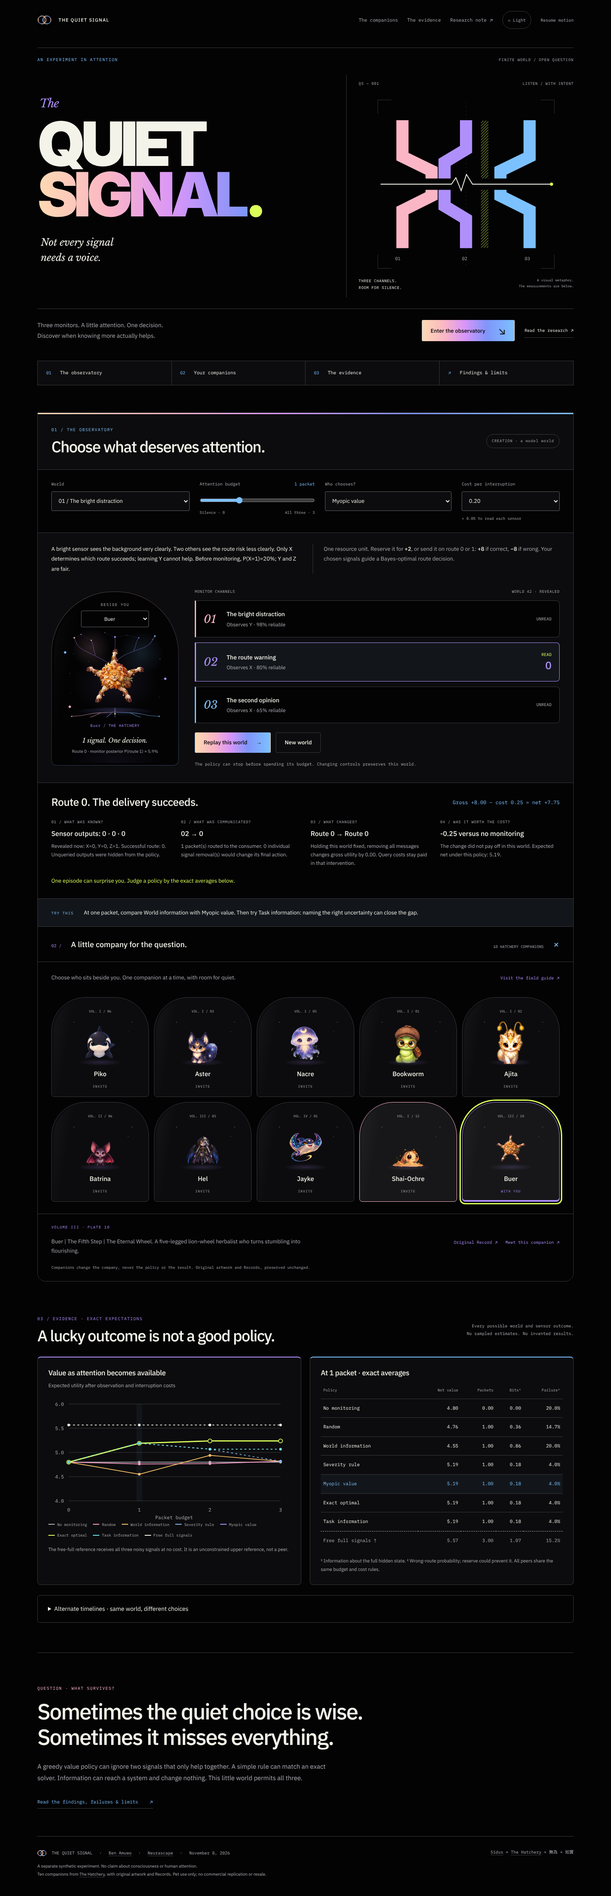
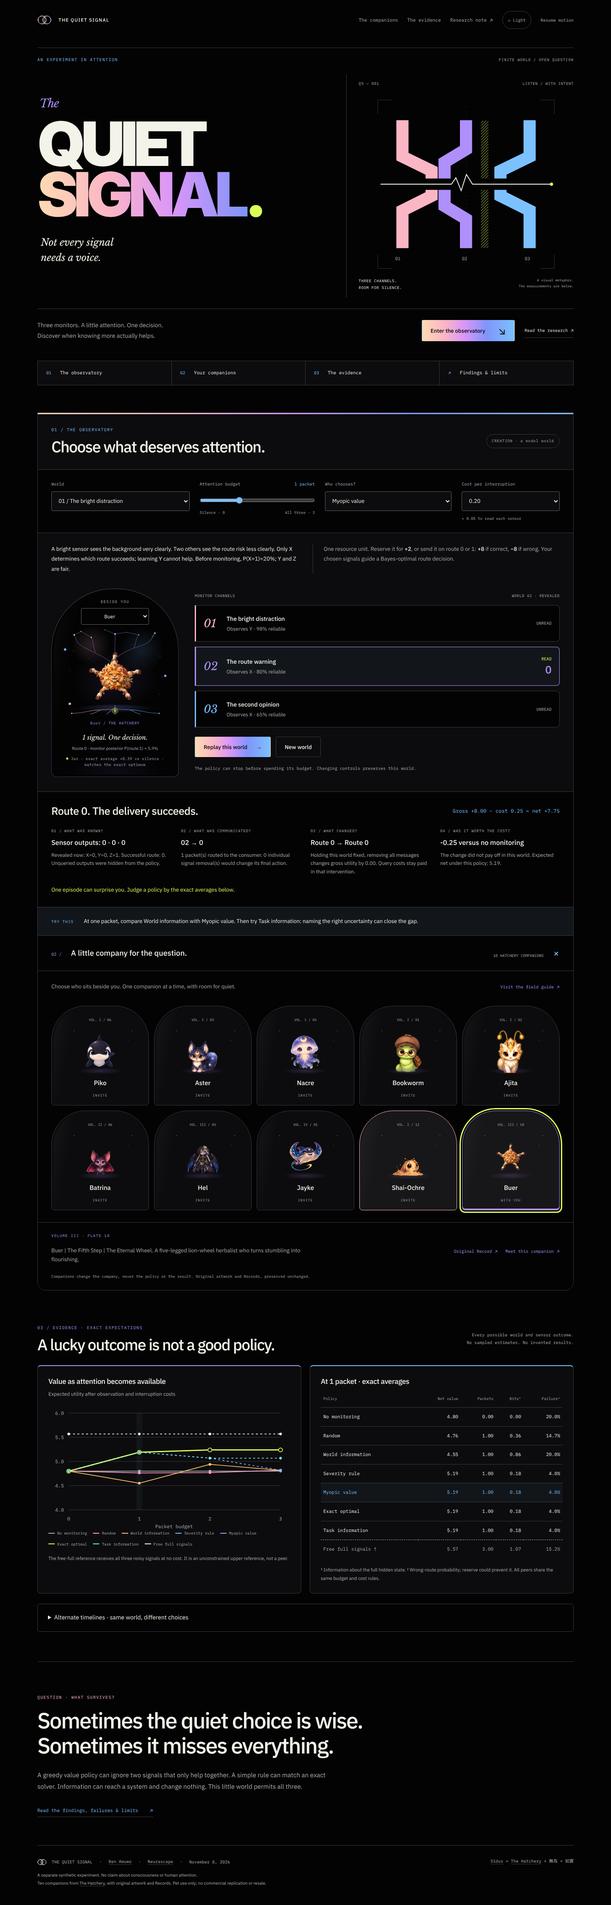
Presentation 0.6: companions re-enact episodes; the jar shows the policy

diff --git a/web/index.html b/web/index.html
@@ -5,7 +5,7 @@
 <meta name="color-scheme" content="dark light"><meta name="description" content="A small, exact experiment in what deserves our attention.">
 <title>The Quiet Signal — a playable experiment</title>
 <link rel="icon" href="assets/maitrism-seal.svg" type="image/svg+xml"><link rel="icon" href="assets/favicon-32.png" sizes="32x32" type="image/png"><link rel="apple-touch-icon" href="assets/apple-touch-icon.png"><link rel="canonical" href="https://benamuwo.me/quiet-signal/"><meta property="og:type" content="website"><meta property="og:site_name" content="Neurascape"><meta property="og:title" content="The Quiet Signal — a playable experiment"><meta property="og:description" content="A small, exact experiment in what deserves our attention. Three monitors, a little attention, one decision."><meta property="og:url" content="https://benamuwo.me/quiet-signal/"><meta property="og:image" content="https://benamuwo.me/quiet-signal/assets/og-card.png"><meta property="og:image:width" content="1200"><meta property="og:image:height" content="630"><meta property="og:image:alt" content="The Quiet Signal: three channels, room for silence."><meta name="twitter:card" content="summary_large_image"><meta name="theme-color" content="#030304">
-<script src="appearance.js"></script><link rel="stylesheet" href="style.css"><link rel="stylesheet" href="identity.css"><link rel="stylesheet" href="seal.css"><link rel="stylesheet" href="terrarium.css"><script defer src="data.js"></script><script defer src="runtime.js"></script><script defer src="pets.js"></script><script defer src="companions.js"></script><script defer src="app.js"></script><script defer src="ux.js"></script>
+<script src="appearance.js"></script><link rel="stylesheet" href="style.css"><link rel="stylesheet" href="identity.css"><link rel="stylesheet" href="seal.css"><link rel="stylesheet" href="terrarium.css"><script defer src="data.js"></script><script defer src="runtime.js"></script><script defer src="pets.js"></script><script defer src="companions.js"></script><script defer src="reactions.js"></script><script defer src="app.js"></script><script defer src="ux.js"></script>
 </head>
 <body>
 <a class="skip" href="#experiment">Skip to experiment</a>
@@ -43,14 +43,14 @@
 </div>
 <div class="world-brief"><p id="world-description"></p><p class="rules">One resource unit. Reserve it for <b>+2</b>, or send it on route 0 or 1: <b>+8</b> if correct, <b>−8</b> if wrong. Your chosen signals guide a Bayes-optimal route decision.</p></div>
 <div class="observatory">
-<div class="companion"><svg class="terrarium" viewBox="0 0 240 216" aria-hidden="true" focusable="false"><defs><radialGradient id="tr-neb-a"><stop offset="0" stop-color="#fbb6c5" stop-opacity=".16"/><stop offset="1" stop-color="#fbb6c5" stop-opacity="0"/></radialGradient><radialGradient id="tr-neb-b"><stop offset="0" stop-color="#7cc1ff" stop-opacity=".14"/><stop offset="1" stop-color="#7cc1ff" stop-opacity="0"/></radialGradient><radialGradient id="tr-soil" cy=".3"><stop offset="0" stop-color="#af90fb" stop-opacity=".22"/><stop offset=".6" stop-color="#8095fa" stop-opacity=".08"/><stop offset="1" stop-color="#8095fa" stop-opacity="0"/></radialGradient></defs><g class="tr-sky"><circle cx="64" cy="44" r="46" fill="url(#tr-neb-a)"/><circle cx="182" cy="56" r="52" fill="url(#tr-neb-b)"/><g class="tr-stars"><circle cx="22" cy="58" r=".8"/><circle cx="40" cy="12" r="1"/><circle class="tw" cx="96" cy="8" r="1.1"/><circle cx="148" cy="14" r=".7"/><circle cx="208" cy="24" r="1"/><circle class="tw tw2" cx="226" cy="70" r=".9"/><circle cx="14" cy="104" r=".7"/><circle cx="230" cy="118" r=".8"/><circle class="tw tw3" cx="58" cy="76" r=".7"/><circle cx="188" cy="92" r=".6"/><circle cx="120" cy="30" r=".6"/><circle cx="16" cy="150" r=".6"/><circle cx="224" cy="160" r=".7"/></g></g><g class="tr-tree" fill="none" stroke-linecap="round"><path class="tr-trunk" d="M120 128C118 104 122 84 120 66M120 196C120 192 120 189 120 186"/><path class="tr-branch" d="M120 92C100 74 76 64 52 52S30 34 24 20M74 61C68 48 70 36 64 26M120 78C134 62 156 54 180 46S206 30 214 16M164 51C170 40 168 30 176 20M120 66C118 50 122 36 120 18"/><path class="tr-const" d="M24 20 40 12M64 26 40 12M120 18 96 8M120 18 148 14M176 20 148 14M214 16 208 24" /><g transform="translate(0 -9)"><path class="tr-root tr-r0" d="M120 204C102 206 80 204 58 209S30 213 18 214M86 206C78 210 70 214 62 216"/><path class="tr-root tr-r1" d="M120 205C121 209 119 212 120 216M112 206C108 210 104 213 100 216"/><path class="tr-root tr-r2" d="M120 204C140 206 162 204 184 209S212 213 224 214M156 206C164 210 172 214 180 216"/></g></g><ellipse cx="120" cy="197" rx="98" ry="13" fill="url(#tr-soil)"/><path class="tr-moss" d="M40 194C70 188 100 187 120 187S172 189 202 194" fill="none"/><g class="tr-worlds"><circle class="w-rose" cx="24" cy="20" r="1.9"/><circle class="w-violet" cx="120" cy="18" r="2.2"/><circle class="w-sky" cx="214" cy="16" r="1.9"/><circle class="w-peach" cx="64" cy="26" r="1.4"/><circle class="w-peri" cx="176" cy="20" r="1.4"/><circle class="w-orchid" cx="40" cy="12" r="1.2"/><circle class="w-rose" cx="18" cy="205" r="1.5"/><circle class="w-sky" cx="224" cy="205" r="1.5"/><circle class="tr-signal" cx="120" cy="199" r="1.8"/></g></svg><label class="companion-select-label" for="companion-select">BESIDE YOU <select id="companion-select" aria-label="Companion"></select></label><div class="orbit orbit-one"></div><div class="orbit orbit-two"></div><span class="star s1"></span><span class="star s2"></span><span class="star s3"></span><span class="star s4"></span><div id="pet" role="img" aria-label="Piko, a young orca from The Hatchery, waiting beside the signals"></div><div class="pet-caption"><span id="pet-name">PIKO / THE HATCHERY</span><p id="silence">Listening begins with a choice.</p><small id="pet-status">Quiet is an available action.</small></div></div>
+<div class="companion"><svg class="terrarium" viewBox="0 0 240 216" aria-hidden="true" focusable="false"><defs><radialGradient id="tr-neb-a"><stop offset="0" stop-color="#fbb6c5" stop-opacity=".16"/><stop offset="1" stop-color="#fbb6c5" stop-opacity="0"/></radialGradient><radialGradient id="tr-neb-b"><stop offset="0" stop-color="#7cc1ff" stop-opacity=".14"/><stop offset="1" stop-color="#7cc1ff" stop-opacity="0"/></radialGradient><radialGradient id="tr-soil" cy=".3"><stop offset="0" stop-color="#af90fb" stop-opacity=".22"/><stop offset=".6" stop-color="#8095fa" stop-opacity=".08"/><stop offset="1" stop-color="#8095fa" stop-opacity="0"/></radialGradient></defs><g class="tr-sky"><circle cx="64" cy="44" r="46" fill="url(#tr-neb-a)"/><circle cx="182" cy="56" r="52" fill="url(#tr-neb-b)"/><g class="tr-stars"><circle cx="22" cy="58" r=".8"/><circle cx="40" cy="12" r="1"/><circle class="tw" cx="96" cy="8" r="1.1"/><circle cx="148" cy="14" r=".7"/><circle cx="208" cy="24" r="1"/><circle class="tw tw2" cx="226" cy="70" r=".9"/><circle cx="14" cy="104" r=".7"/><circle cx="230" cy="118" r=".8"/><circle class="tw tw3" cx="58" cy="76" r=".7"/><circle cx="188" cy="92" r=".6"/><circle cx="120" cy="30" r=".6"/><circle cx="16" cy="150" r=".6"/><circle cx="224" cy="160" r=".7"/></g></g><g class="tr-tree" fill="none" stroke-linecap="round"><path class="tr-trunk" d="M120 128C118 104 122 84 120 66M120 196C120 192 120 189 120 186"/><path class="tr-branch" d="M120 92C100 74 76 64 52 52S30 34 24 20M74 61C68 48 70 36 64 26M120 78C134 62 156 54 180 46S206 30 214 16M164 51C170 40 168 30 176 20M120 66C118 50 122 36 120 18"/><path class="tr-const" d="M24 20 40 12M64 26 40 12M120 18 96 8M120 18 148 14M176 20 148 14M214 16 208 24" /><g transform="translate(0 -9)"><path class="tr-root tr-r0" d="M120 204C102 206 80 204 58 209S30 213 18 214M86 206C78 210 70 214 62 216"/><path class="tr-root tr-r1" d="M120 205C121 209 119 212 120 216M112 206C108 210 104 213 100 216"/><path class="tr-root tr-r2" d="M120 204C140 206 162 204 184 209S212 213 224 214M156 206C164 210 172 214 180 216"/></g></g><ellipse cx="120" cy="197" rx="98" ry="13" fill="url(#tr-soil)"/><path class="tr-moss" d="M40 194C70 188 100 187 120 187S172 189 202 194" fill="none"/><g class="tr-root-light"><circle class="tr-halo" cx="120" cy="199" r="7"/></g><g class="tr-worlds"><circle class="w-rose" cx="24" cy="20" r="1.9"/><circle class="w-violet" cx="120" cy="18" r="2.2"/><circle class="w-sky" cx="214" cy="16" r="1.9"/><circle class="w-peach" cx="64" cy="26" r="1.4"/><circle class="w-peri" cx="176" cy="20" r="1.4"/><circle class="w-orchid" cx="40" cy="12" r="1.2"/><circle class="w-rose" cx="18" cy="205" r="1.5"/><circle class="w-sky" cx="224" cy="205" r="1.5"/><circle class="tr-signal" cx="120" cy="199" r="1.8"/></g></svg><label class="companion-select-label" for="companion-select">BESIDE YOU <select id="companion-select" aria-label="Companion"></select></label><div class="orbit orbit-one"></div><div class="orbit orbit-two"></div><span class="star s1"></span><span class="star s2"></span><span class="star s3"></span><span class="star s4"></span><div id="pet" role="img" aria-label="Piko, a young orca from The Hatchery, waiting beside the signals"></div><div class="pet-caption"><span id="pet-name">PIKO / THE HATCHERY</span><p id="silence">Listening begins with a choice.</p><small id="pet-status">Quiet is an available action.</small><small id="jar-status" class="jar-status"></small></div></div>
 <div class="signal-area"><div class="instrument-header"><span>MONITOR CHANNELS</span><span id="episode-label">WORLD 42 · UNREVEALED</span></div><div id="signals"></div><div class="run-actions"><button id="run" class="primary">Listen & decide <span aria-hidden="true">→</span></button><button id="next" class="secondary">New world</button><span id="selection-note">The policy can stop before spending its budget.</span></div></div>
 </div>
 <div id="outcome" class="outcome" hidden aria-live="polite"></div>
 <div class="lesson"><span class="eyebrow">TRY THIS</span><p id="lesson"></p></div>
 <details id="companions" class="companion-guide"><summary><span><b>02 /</b> A little company for the question.</span><span class="guide-count">10 HATCHERY COMPANIONS <span aria-hidden="true">+</span></span></summary><div class="guide-intro"><p>Choose who sits beside you. One companion at a time, with room for quiet.</p><a href="https://hatchery.world" target="_blank" rel="noopener">Visit the field guide ↗</a></div><div id="companion-gallery" class="companion-gallery" role="group" aria-label="Choose a Hatchery companion"></div><div class="companion-record"><div><span id="companion-plate" class="eyebrow"></span><p id="companion-description"></p></div><div class="record-links"><a id="companion-record" href="assets/piko/record.json" target="_blank" rel="noopener">Original Record ↗</a><a id="companion-home" href="https://hatchery.world/piko/index.html" target="_blank" rel="noopener">Meet this companion ↗</a></div></div><p class="guide-note">Companions change the company, never the policy or the result. Original artwork and Records, preserved unchanged.</p></details><span id="companion-announcement" class="sr-only" role="status" aria-live="polite"></span>
 </section>
-<section id="record" class="evidence" aria-labelledby="evidence-title"><div class="section-head"><div><p class="eyebrow">03 / EVIDENCE · EXACT EXPECTATIONS</p><h2 id="evidence-title">A lucky outcome is not a good policy.</h2></div><p>Every possible world and sensor outcome.<br>No sampled estimates. No invented results.</p></div><div class="evidence-layout"><div class="chart-panel"><h3>Value as attention becomes available</h3><p class="muted">Expected utility after observation and interruption costs</p><div id="chart"></div><div id="legend" class="legend"></div><p class="chart-note">The free-full reference receives all three noisy signals at no cost. It is an unconstrained upper reference, not a peer.</p></div><div class="table-panel"><h3 id="table-title">At this budget</h3><div class="table-scroll"><table><thead><tr><th scope="col">Policy</th><th scope="col">Net value</th><th scope="col">Packets</th><th scope="col">Bits¹</th><th scope="col">Failure²</th></tr></thead><tbody id="results-body"></tbody></table></div><p class="chart-note">¹ Information about the full hidden state. ² Wrong-route probability; reserve could prevent it. All peers share the same budget and cost rules.</p></div></div><details><summary>Alternate timelines · same world, different choices</summary><p class="muted">Run an episode to reveal these modeled counterfactuals. The hidden state and all sensor noise stay fixed. These are program interventions, not empirical causal estimates.</p><div class="table-scroll"><table><thead><tr><th>Policy</th><th>Read signals</th><th>Action</th><th>Gross</th><th>Cost</th><th>Net</th></tr></thead><tbody id="timeline-body"></tbody></table></div></details></section>
+<section id="record" class="evidence" aria-labelledby="evidence-title"><div class="section-head"><div><p class="eyebrow">03 / EVIDENCE · EXACT EXPECTATIONS</p><h2 id="evidence-title">A lucky outcome is not a good policy.</h2></div><p>Every possible world and sensor outcome.<br>No sampled estimates. No invented results.</p></div><div class="evidence-layout"><div class="chart-panel"><h3>Value as attention becomes available</h3><p class="muted">Expected utility after observation and interruption costs</p><div id="chart"></div><div id="legend" class="legend"></div><p class="chart-note">The free-full reference receives all three noisy signals at no cost. It is an unconstrained upper reference, not a peer.</p></div><div class="table-panel"><h3 id="table-title">At this budget</h3><div class="table-scroll"><table><thead><tr><th scope="col">Policy</th><th scope="col">Net value</th><th scope="col">Packets</th><th scope="col">Bits¹</th><th scope="col">Failure²</th></tr></thead><tbody id="results-body"></tbody></table></div><p class="chart-note">¹ Information about the full hidden state. ² Wrong-route probability; reserve could prevent it. All peers share the same budget and cost rules.</p></div></div><details><summary>Alternate timelines · same world, different choices</summary><p class="muted">Run an episode to reveal these modeled counterfactuals. The hidden state and all sensor noise stay fixed. These are program interventions, not empirical causal estimates. Select a row to watch your companion re-enact that timeline.</p><div class="table-scroll"><table><thead><tr><th>Policy</th><th>Read signals</th><th>Action</th><th>Gross</th><th>Cost</th><th>Net</th></tr></thead><tbody id="timeline-body"></tbody></table></div></details></section>
 <section class="closing"><p class="eyebrow">QUESTION · WHAT SURVIVES?</p><h2>Sometimes the quiet choice is wise.<br>Sometimes it misses everything.</h2><p>A greedy value policy can ignore two signals that only help together. A simple rule can match an exact solver. Information can reach a system and change nothing. This little world permits all three.</p><a href="research.html" class="research-link">Read the findings, failures & limits <span>↗</span></a></section>
 </main>
 <footer><p><a class="seal-home" href="https://benamuwo.me/" aria-label="Neurascape home, benamuwo.me"><img src="assets/maitrism-seal.svg" alt="" width="22" height="22"></a>THE QUIET SIGNAL <span>·</span> <a href="https://benamuwo.com">Ben Amuwo</a> <span>·</span> <a href="https://benamuwo.me/">Neurascape</a> <span>·</span> November 8, 2026</p><p><a href="https://sidus.quest">Sīdus</a> × <a href="https://hatchery.world">The Hatchery</a> × 無為 × 如實</p><small>A separate synthetic experiment. No claim about consciousness or human attention.<br>Ten companions from <a href="https://hatchery.world">The Hatchery</a>, with original artwork and Records. Pet use only; no commercial replication or resale.</small></footer>

diff --git a/web/app.js b/web/app.js
@@ -7,13 +7,14 @@ const text={
  alignment:{description:'All three monitors watch the same fair route bit X, at different reliabilities. This is a world where information and decision value can agree. Route X is the successful one.',names:['The clear warning','The softer warning','The faint warning'],desc:['Observes X · 90% reliable','Observes X · 70% reliable','Observes X · 60% reliable'],lesson:'At one packet, several policies tie. Raise the interruption cost to 10: both value policies prefer reserve and silence.'},
  disconnected:{description:'The sensors still see the fair bit X, which determines the successful route. But their connection to the decision mechanism is deliberately cut. The consumer always uses its prior and reserves the resource.',names:['The clear warning','The softer warning','The faint warning'],desc:['Observes X · 90% · gate closed','Observes X · 70% · gate closed','Observes X · 60% · gate closed'],lesson:'Choose World information and listen. Information arrives, but the closed gate prevents any change in action. Costs are still paid.'}
 };
-let seed=42, revealed=false, result=null, selected=[], paused=matchMedia('(prefers-reduced-motion: reduce)').matches, frame=0, row=6;
+let seed=42, revealed=false, result=null, selected=[], paused=matchMedia('(prefers-reduced-motion: reduce)').matches, timelines={};
 const fmt=(x,n=2)=>Math.abs(x)<1e-10?(0).toFixed(n):x.toFixed(n);
 const sign=x=>(x>1e-10?'+':'')+fmt(x);
 const action=a=>['Reserve','Route 0','Route 1'][a];
 const state=()=>({name:$('world').value,world:D.worlds[$('world').value],budget:Number($('budget').value),cost:Number($('cost').value),policy:$('policy').value});
 function refresh(){
  const s=state(), t=text[s.name];
+ QuietReactions.jar(s);
  $('budget-value').textContent=`${s.budget} packet${s.budget===1?'':'s'}`;
  $('world-description').textContent=t.description; $('lesson').textContent=t.lesson;
  $('episode-label').textContent=`WORLD ${seed} · ${revealed?'REVEALED':'UNREVEALED'}`;
@@ -29,10 +30,10 @@ function refresh(){
   b.onclick=()=>{if(selected.includes(i))selected=selected.filter(j=>j!==i);else if(selected.length<s.budget)selected.push(i);else{$('selection-note').textContent='Budget full. Deselect a monitor or increase the packet budget.';return;}reset();$('signals').children[i].focus();};
   $('signals').append(b);
  }
- if(!revealed){$('outcome').hidden=true;$('silence').textContent=s.budget===0?'Silence is the whole budget.':'Listening begins with a choice.';$('pet-status').textContent='Quiet is an available action.';row=6;}
+ if(!revealed){$('outcome').hidden=true;$('silence').textContent=s.budget===0?'Silence is the whole budget.':'Listening begins with a choice.';$('pet-status').textContent='Quiet is an available action.';}
  renderEvidence(s); renderTimelines(s);
 }
-function reset(){revealed=false;result=null;frame=0;refresh();}
+function reset(){revealed=false;result=null;QuietReactions.rest();refresh();}
 function renderEvidence(s){
  const summaries=s.world.summaries[String(s.cost)];
  const css=getComputedStyle(document.documentElement), token=n=>css.getPropertyValue(n).trim();
@@ -57,7 +58,7 @@ function run(){
  const s=state(), a=R.atom(s.world,seed);
  result=R.replay(s.world,s.cost,s.budget,s.policy,a,seed+901,selected);revealed=true;refresh();
  const r=result, node=r.node, names=r.trace.map(x=>`0${x.sensor+1} → ${x.signal}`), truth=s.world.states[a.state];
- row=r.trace.length?(s.name==='disconnected'?8:3):6;frame=0;
+ QuietReactions.play(r);
  $('silence').textContent=r.trace.length?`${r.trace.length} signal${r.trace.length===1?'':'s'}. One decision.`:`${QuietCompanion.current.shortName} chooses silence.`;
  $('pet-status').textContent=r.trace.length?`${action(r.action)} · monitor posterior P(route 1) = ${fmt(node.target_probability*100,1)}%`:s.budget===0?'No packet slots available.':s.policy==='none'?'No monitoring is the selected policy.':s.policy==='manual'?'You chose to leave every monitor unread.':'This policy found no query worth taking.';
  const gate=s.name==='disconnected';
@@ -68,9 +69,10 @@ function run(){
  $('outcome').hidden=false;
 }
 function renderTimelines(s){
+ timelines={};
  if(!revealed){$('timeline-body').innerHTML='<tr><td colspan="6">Waiting for an episode.</td></tr>';return;}
  const a=R.atom(s.world,seed);
- $('timeline-body').innerHTML=Object.keys(D.policies).map(p=>{const r=R.replay(s.world,s.cost,s.budget,p,a,seed+901);return `<tr class="${p==='full'?'reference':''}"><td>${D.policies[p]}</td><td>${r.trace.map(x=>`0${x.sensor+1}:${x.signal}`).join(' · ')||'Silence'}</td><td>${action(r.action)}</td><td>${sign(r.utility)}</td><td>${fmt(r.cost)}</td><td>${sign(r.net)}</td></tr>`;}).join('');
+ $('timeline-body').innerHTML=Object.keys(D.policies).map(p=>{const r=R.replay(s.world,s.cost,s.budget,p,a,seed+901);timelines[p]=r;return `<tr class="${p==='full'?'reference':''}" data-policy="${p}" tabindex="0" aria-label="${D.policies[p]}: ${action(r.action)}, net ${sign(r.net)}. Select to watch the companion re-enact this timeline."><td>${D.policies[p]}</td><td>${r.trace.map(x=>`0${x.sensor+1}:${x.signal}`).join(' · ')||'Silence'}</td><td>${action(r.action)}</td><td>${sign(r.utility)}</td><td>${fmt(r.cost)}</td><td>${sign(r.net)}</td></tr>`;}).join('');
 }
 for(const id of ['world','policy','cost'])$(id).onchange=()=>{if(id==='world'){$('budget').value=$('world').value==='complementarity'?'2':'1';selected=[];}reset();};
 $('budget').oninput=()=>{selected=selected.slice(0,Number($('budget').value));reset();};
@@ -79,7 +81,9 @@ $('next').onclick=()=>{seed=(Math.imul(seed,1664525)+1013904223)>>>0;reset();};
 function motion(){document.documentElement.classList.toggle('motion-paused',paused);document.body.classList.toggle('motion-paused',paused);$('motion').textContent=paused?'Resume motion':'Pause motion';$('motion').setAttribute('aria-pressed',String(paused));}
 $('motion').onclick=()=>{paused=!paused;motion();};
 matchMedia('(prefers-reduced-motion: reduce)').addEventListener('change',e=>{paused=e.matches;motion();});
-setInterval(()=>{if(document.hidden||paused){frame=0;}else{frame=(frame+1)%QuietCompanion.frames(row);}$('pet').style.backgroundPosition=`${-192*frame}px ${-208*row}px`;},180);
+function playTimeline(tr){const p=tr&&tr.dataset.policy;if(!p||!timelines[p])return;for(const x of $('timeline-body').rows)x.classList.toggle('is-playing',x===tr);QuietReactions.play(timelines[p]);$('companion-announcement').textContent=`${QuietCompanion.current.shortName} re-enacts ${D.policies[p]}: ${action(timelines[p].action)}, net ${sign(timelines[p].net)}.`;}
+$('timeline-body').addEventListener('click',e=>playTimeline(e.target.closest('tr[data-policy]')));
+$('timeline-body').addEventListener('keydown',e=>{if(e.key==='Enter'||e.key===' '){e.preventDefault();playTimeline(e.target.closest('tr[data-policy]'));}});
 document.addEventListener('quiet:theme',()=>renderEvidence(state()));
-document.addEventListener('quiet:companion',()=>{frame=0;if(revealed && result && !result.trace.length)$('silence').textContent=`${QuietCompanion.current.shortName} chooses silence.`;});
+document.addEventListener('quiet:companion',()=>{QuietReactions.restart();if(revealed && result && !result.trace.length)$('silence').textContent=`${QuietCompanion.current.shortName} chooses silence.`;});
 motion();refresh();

diff --git a/web/reactions.js b/web/reactions.js
@@ -1,0 +1,81 @@
+/* The Quiet Signal / Reactions / presentation 0.6.
+   Two layers, both presentation only; neither computes nor changes a result.
+   - The companion re-enacts the episode the engine already computed: it runs toward each
+     monitor it reads, reviews when a reading changes nothing, then shows the outcome of this
+     one draw (jumping for a successful delivery, failed for a failed one, waving for a
+     conserved resource). One episode can be lucky, so this layer shows what happened.
+   - The terrarium shows how good the chosen policy is on average, from the exact expected
+     values already exported: the root light scales with the policy's expected gain over
+     silence relative to the best possible gain, and the constellation lights only when the
+     policy matches the exact optimum. This layer shows judgement, not luck.
+   Before an episode the companion waits, as before; afterwards it settles into idle.
+   Rows follow each companion's Record (hatchery-record/0); undocumented rows 9-10 are unused. */
+(function (root) {
+  'use strict';
+  const ROW = {idle: 0, toward: 1, wave: 3, jump: 4, fail: 5, wait: 6, review: 8};
+  const OUTCOME = {8: ROW.jump, '-8': ROW.fail, 2: ROW.wave};
+  let steps = [{row: ROW.wait, loops: Infinity}], step = 0, frame = 0, loops = 0, still = ROW.wait;
+
+  const frames = row => root.QuietCompanion.frames(row);
+  const paused = () => document.hidden || document.documentElement.classList.contains('motion-paused');
+  const fmt = x => (Math.abs(x) < 1e-10 ? 0 : x).toFixed(2);
+  const sign = x => (x > 1e-10 ? '+' : '') + fmt(x);
+
+  function draw(row, f) {
+    const pet = document.getElementById('pet');
+    if (pet) pet.style.backgroundPosition = `${-192 * f}px ${-208 * row}px`;
+  }
+
+  /* The choreography for one replayed episode, read only from the runtime's own result. */
+  function sequence(r) {
+    const seq = r.trace.length ? r.trace.map(() => ({row: ROW.toward, loops: 1}))
+                               : [{row: ROW.wait, loops: 1}];
+    if (r.trace.length && r.action === r.baseline) seq.push({row: ROW.review, loops: 1});
+    const outcome = OUTCOME[r.utility] ?? ROW.idle;
+    seq.push({row: outcome, loops: 3}, {row: ROW.idle, loops: Infinity});
+    return {seq, outcome};
+  }
+
+  function start(seq, rest) {
+    steps = seq; still = rest; step = 0; frame = 0; loops = 0;
+    draw(paused() ? still : steps[0].row, 0);
+  }
+  const play = r => { const {seq, outcome} = sequence(r); start(seq, outcome); };
+  const rest = () => start([{row: ROW.wait, loops: Infinity}], ROW.wait);
+  const restart = () => start(steps, still);
+
+  function tick() {
+    if (paused()) { draw(still, 0); return; }
+    frame += 1;
+    if (frame >= frames(steps[step].row)) {
+      frame = 0; loops += 1;
+      if (loops >= steps[step].loops && step < steps.length - 1) { step += 1; loops = 0; }
+    }
+    draw(steps[step].row, frame);
+  }
+
+  /* The jar: exact expectations for the selected policy at this world, cost and budget. */
+  function jar(s) {
+    const svg = document.querySelector('.terrarium'), note = document.getElementById('jar-status');
+    if (!svg || !note) return;
+    const table = s.world.summaries[String(s.cost)];
+    if (!table[s.policy]) {
+      svg.style.removeProperty('--jar');
+      svg.classList.remove('is-optimal', 'is-below');
+      note.textContent = 'The jar lights for a named policy. Your own picks are judged by the episode.';
+      return;
+    }
+    const none = table.none[s.budget].net, best = table.optimal[s.budget].net - none;
+    const gain = table[s.policy][s.budget].net - none;
+    const optimal = Math.abs(gain - best) < 1e-9;
+    const level = best > 1e-10 ? Math.min(1, Math.max(0, gain / best)) : (Math.abs(gain) < 1e-10 ? 1 : 0);
+    svg.style.setProperty('--jar', level.toFixed(3));
+    svg.classList.toggle('is-optimal', optimal);
+    svg.classList.toggle('is-below', gain < -1e-10);
+    note.textContent = `Jar · exact average ${sign(gain)} vs silence · ` +
+      (optimal ? 'matches the exact optimum' : `best possible ${sign(best)}`);
+  }
+
+  setInterval(tick, 180);
+  root.QuietReactions = {play, rest, restart, jar, sequence, ROW};
+})(globalThis);

diff --git a/web/terrarium.css b/web/terrarium.css
@@ -38,3 +38,17 @@
 .motion-paused .terrarium *{animation:none!important}
 @media(prefers-reduced-motion:reduce){.terrarium *{animation:none!important}}
 @media(forced-colors:active){.terrarium,.companion::after,.companion-card::before{display:none}.companion{border-color:CanvasText;background:Canvas}}
+/* Presentation 0.6 / Reactions: the jar reflects the selected policy's exact average.
+   --jar is set by reactions.js from exported expectations (0 = no better than silence, 1 = best possible). */
+.tr-halo{fill:var(--signal);opacity:calc(.06 + .22*var(--jar,.45));transform-box:fill-box;transform-origin:center;transform:scale(calc(.3 + .8*var(--jar,.45)));transition:transform .7s ease,opacity .7s ease}
+.terrarium.is-optimal .tr-const{stroke:var(--seal-sky);stroke-dasharray:none;stroke-width:.7;opacity:1}
+.terrarium.is-optimal .tr-worlds circle{opacity:1}
+.terrarium.is-below .tr-signal{fill:var(--muted)}
+:root[data-theme=light] .terrarium.is-optimal .tr-const{stroke:var(--mint)}
+.pet-caption .jar-status{display:block;margin:8px auto 0;max-width:250px;font:9px/1.6 var(--mono);letter-spacing:.04em;color:var(--muted)}
+.pet-caption .jar-status::before{content:'';display:inline-block;width:5px;height:5px;margin-right:7px;border-radius:50%;background:var(--signal);vertical-align:1px}
+#timeline-body tr[data-policy]{cursor:pointer}
+#timeline-body tr[data-policy]:hover td{background:var(--tint)}
+#timeline-body tr[data-policy]:focus-visible{outline:2px solid var(--signal);outline-offset:-2px}
+#timeline-body tr.is-playing td{background:var(--tint);color:var(--text)}
+#timeline-body tr.is-playing td:first-child{box-shadow:inset 3px 0 0 var(--signal)}

diff --git a/tests/test_record.py b/tests/test_record.py
@@ -39,7 +39,14 @@ class RecordTests(unittest.TestCase):
             self.assertEqual(hashlib.sha256((ROOT/entry['path']).read_bytes()).hexdigest(),entry['sha256'])
         for path,digest in json.loads((ROOT/'docs/presentation_baseline.json').read_text()).items():
             self.assertEqual(hashlib.sha256((ROOT/path).read_bytes()).hexdigest(),digest)
+        reactions=json.loads((ROOT/'docs/reactions_baseline.json').read_text())
         for path,digest in json.loads((ROOT/'docs/identity_baseline.json').read_text()).items():
+            # Presentation 0.6 changed app.js on purpose; the record names old and new identities.
+            if path in reactions['changed']:
+                self.assertEqual(reactions['changed'][path]['v0.3_identity'],digest,path)
+                digest=reactions['changed'][path]['v0.6_reactions']
+            self.assertEqual(hashlib.sha256((ROOT/path).read_bytes()).hexdigest(),digest,path)
+        for path,digest in reactions['added'].items():
             self.assertEqual(hashlib.sha256((ROOT/path).read_bytes()).hexdigest(),digest,path)
         for entry in json.loads((ROOT/'docs/identity_font_sources.json').read_text()):
             self.assertEqual(hashlib.sha256((ROOT/entry['path']).read_bytes()).hexdigest(),entry['sha256'])

diff --git a/scripts/build_release.py b/scripts/build_release.py
@@ -24,7 +24,7 @@ ROOT = Path(__file__).resolve().parents[1]
 WEB = ROOT / "web"
 DIST = ROOT / "dist"
 OUT = DIST / "quiet-signal"
-TAG = "site-2026-11-09-r5"
+TAG = "site-2026-11-09-r6"
 ZIP = DIST / f"quiet-signal-{TAG}.zip"
 
 # Loaded by no current page; retained in web/ as release history only
@@ -111,7 +111,7 @@ def main():
     release = {
         "project": "The Quiet Signal",
         "release": TAG,
-        "presentation": "0.5",
+        "presentation": "0.6",
         "scientific_model": "0.1",
         "route": "/quiet-signal/",
         "source_identity": source_identity(),

diff --git a/docs/PRESENTATION_V06.md b/docs/PRESENTATION_V06.md
@@ -1,0 +1,56 @@
+# Presentation update · v0.6 (Reactions)
+
+Presentation v0.6 over scientific model v0.1. Ben Amuwo requested it on 9 November 2026: link the experiment's outcomes to more of the Hatchery companions' animations, built to the standard of the live page.
+
+## Two Layers: What Happened and How Good the Policy Is
+
+One episode is a single draw, and a poor policy can get lucky. So the page separates two things.
+
+**The companion re-enacts the episode** (`web/reactions.js`). The sequence is read only from the runtime's own replay result:
+
+| What the engine computed | Companion row (from its Record) |
+|---|---|
+| Before any episode | waiting (6), as before |
+| Each monitor read, in order | running-right (1), toward the monitors |
+| Silence: the policy stopped without reading | waiting (6) |
+| Readings arrived but the action did not change | review (8) |
+| The delivery succeeds (+8) | jumping (4), three loops |
+| The delivery fails (−8) | failed (5), three loops |
+| The resource is conserved (+2) | waving (3), three loops |
+| Afterwards | idle (0) |
+
+**The terrarium shows the policy's exact average.** It uses the exported expectations for the selected world, cost and budget:
+- The green root light grows with the policy's expected gain over silence, measured against the best possible gain.
+- The constellation lights only when the policy matches the exact optimum.
+- The root signal greys when the policy does worse than silence.
+- A caption states the numbers, for example "Jar · exact average +2.62 vs silence · matches the exact optimum".
+- Manual selections have no exported expectation, so the jar says so rather than estimating one.
+
+The two layers can disagree, and that disagreement is the lesson. In the missing-half world with seed 42, Exact optimal fills the jar but the delivery fails in this draw, while Myopic value's silence happens to conserve the resource.
+
+**Alternate timelines:** selecting a row of the alternate-timeline table, by click, Enter or Space, has the companion re-enact that policy in the same world with the same noise. The episode's outcome text never changes, and a status line announces the re-enactment.
+
+## Accessibility and Motion
+
+- When motion is paused or reduced, the companion holds the first frame of the outcome pose, so the meaning survives without movement.
+- The text outcome and the screen-reader status remain the main way the result is announced. The animation is never the only signal.
+- Timeline rows are focusable, show a green focus ring and carry descriptive labels.
+
+## Boundaries
+
+- **Presentation only:** neither layer computes or changes a result.
+- **Unchanged files:** `runtime.js`, `data.js`, `companions.js`, `pets.js`, the engine, both CSVs and the primary figure are byte-identical. The tests assert these.
+- **`app.js` changed on purpose,** to hand episodes to `reactions.js` and to make timeline rows selectable. `docs/reactions_baseline.json` records its v0.3 and v0.6 identities and the new file, and the tests check both.
+- **Companion rows 9 and 10 are not used,** because the Hatchery has not documented their meaning.
+- The security policy (CSP) is unchanged.
+
+## Verification (9 November 2026)
+
+| Check | Result |
+|---|---|
+| Python tests | 14 passed (identity baseline plus reactions record) |
+| `check_export.cjs` | 640 comparisons, 35,840 traces passed |
+| `check_browser.cjs` | Passed |
+| `check_reactions.cjs` (new) | Passed locally and through the real blog under the release CSP: observed sequences optimal [1,5,0], myopic [6,3,0], closed gate [1,8,3,0], each matching the episode's outcome; jar levels 1 / 0 / below-silence / neutral; keyboard timeline re-enactment; pause holds the outcome pose; no page errors (`results/reactions_checks.json`) |
+| `check_hosted.cjs` | No CSP violations, errors or off-origin requests |
+| Release `site-2026-11-09-r6` | zip SHA-256 `d78d4efd…8c56`; receipt `19df3a42…36a0` |

diff --git a/deploy/DEPLOY.md b/deploy/DEPLOY.md
@@ -1,6 +1,6 @@
 # Deploying The Quiet Signal → https://benamuwo.me/quiet-signal/
 
-**Status:** On 9 November 2026, `site-2026-11-09` through `-r4` were published. **`site-2026-11-09-r5`** (presentation 0.5, Terrarium) is built and verified but not yet published.
+**Status:** On 9 November 2026, `site-2026-11-09` through `-r5` were published. **`site-2026-11-09-r6`** (presentation 0.6, Reactions) is built and verified but not yet published.
 
 ## Updating to a New Release (Blog Already Done)
 
@@ -8,12 +8,12 @@ The blog blueprint is already on the droplet, so an update only touches the stat
 
 ```sh
 cd ~/Root/quiet-signal
-git add -A && git commit -m "Presentation 0.5: cosmic terrarium for the companions"
+git add -A && git commit -m "Presentation 0.6: companions re-enact episodes; the jar shows the policy"
 git push
-python3 scripts/build_release.py        # must print zip sha256: ec8f195d75d07ec025ef8b8aece321dcf7440adf11bd8e88f67a004758b589d8
-gh release create site-2026-11-09-r5 dist/quiet-signal-site-2026-11-09-r5.zip \
-  --title "The Quiet Signal · site 2026-11-09 r5 (Terrarium)" \
-  --notes "Presentation 0.5 over scientific model 0.1: a cosmic terrarium for the companions. Verified by deploy/droplet_install.sh against RELEASE.json."
+python3 scripts/build_release.py        # must print zip sha256: d78d4efd8818a0136029abfd3aecce0baaf2c07671cfb1a9ba48d6d37b878c56
+gh release create site-2026-11-09-r6 dist/quiet-signal-site-2026-11-09-r6.zip \
+  --title "The Quiet Signal · site 2026-11-09 r6 (Reactions)" \
+  --notes "Presentation 0.6 over scientific model 0.1: companions re-enact each episode; the terrarium shows the policy's exact average. Verified by deploy/droplet_install.sh against RELEASE.json."
 ```
 
 Then, in the DigitalOcean console:

diff --git a/README.md b/README.md
@@ -1,6 +1,6 @@
 # The Quiet Signal
 
-A small, exact experiment in what deserves attention. **Presentation v0.5 (Terrarium) / scientific model v0.1.** Commissioned by **Ben Amuwo**,
+A small, exact experiment in what deserves attention. **Presentation v0.6 (Reactions) / scientific model v0.1.** Commissioned by **Ben Amuwo**,
 November 8, 2026. Built with Codex assistance. This is an isolated research prototype,
 not an amendment to Sīdus or a new Hatchery release.
 
@@ -26,6 +26,7 @@ Your theme and companion preferences are saved locally when browser storage is
 available. No analytics or account is involved.
 
 The companions now live in a small cosmic terrarium (`docs/PRESENTATION_V05.md`).
+They re-enact each episode, and the jar shows the policy's exact average (`docs/PRESENTATION_V06.md`).
 See `docs/PRESENTATION_V04.md` for the seal design underneath it: the Maitrism seal favicon and palette,
 with the citron kept as the colour of the signal itself. `PRESENTATION_V03.md` records
 the Blackout Broadcast identity underneath it.
@@ -85,6 +86,7 @@ UI checks, install the development-only Playwright dependency and its browser:
 npm ci
 npx playwright install chromium
 node scripts/check_browser.cjs
+node scripts/check_reactions.cjs
 ```
 
 For an existing Playwright installation, set `PLAYWRIGHT_MODULE` to its module
